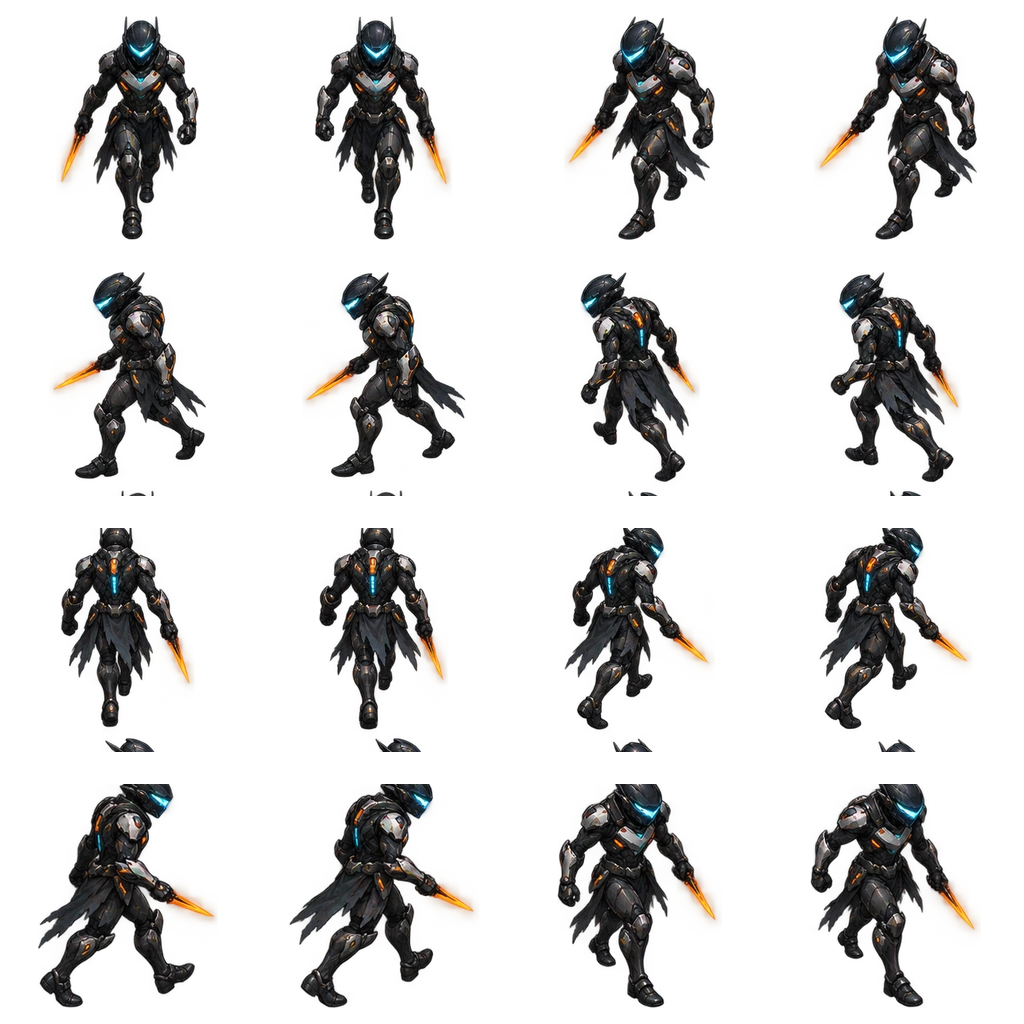
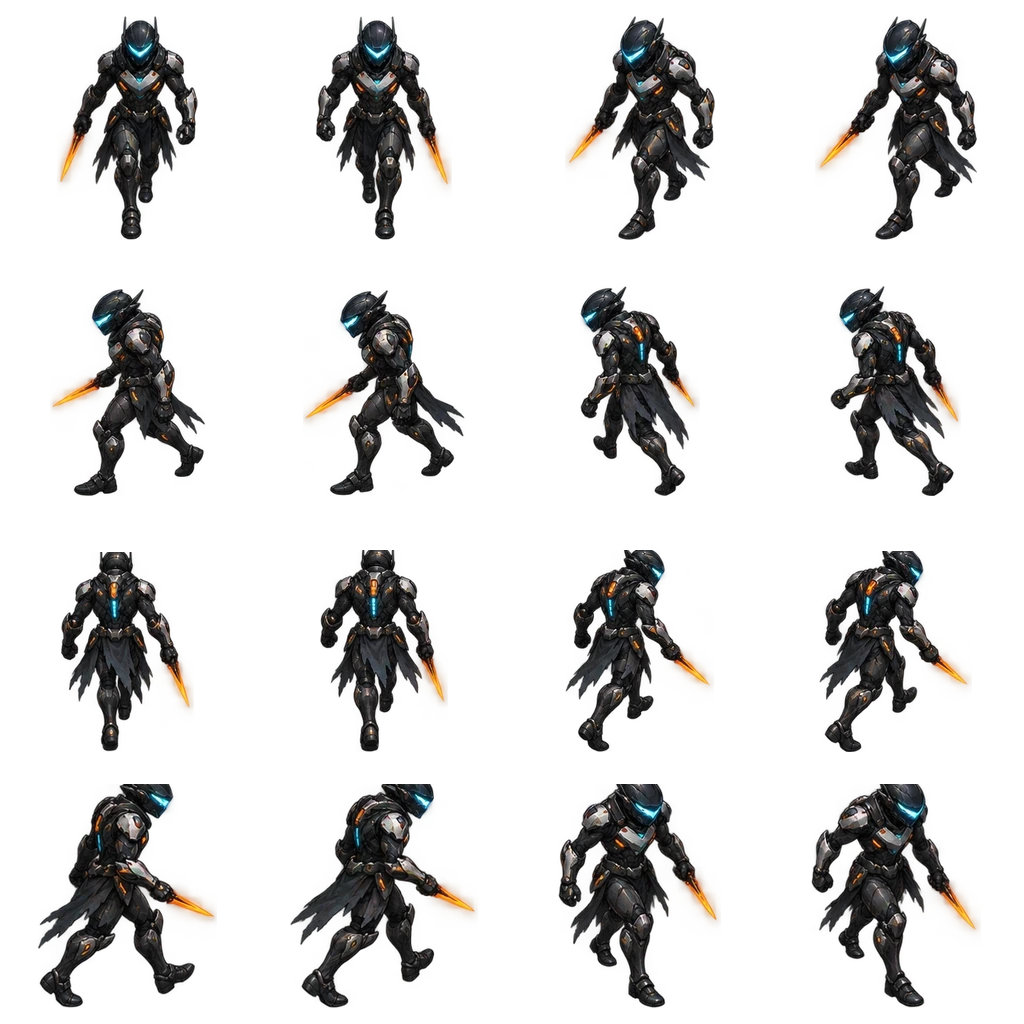
Mix future sword guards and rifle guards with clean directional sprites

diff --git a/flutter_game/lib/adventure.dart b/flutter_game/lib/adventure.dart
@@ -628,7 +628,7 @@ class Adventure extends ChangeNotifier {
           ? world.spawn + ui.Offset(-60 + (i % 3) * 62, 165 + (i % 2) * 50)
           : at + ui.Offset(math.cos(angle) * r, math.sin(angle) * r);
       final kind = world.stage == WorldStage.future
-          ? 'cyber'
+          ? (i % 3 == 0 ? 'cyber' : 'gunner')
           : world.stage == WorldStage.sands
           ? ['scorpion', 'mummy', 'cultist'][(i + progress.level) % 3]
           : world.stage == WorldStage.past
@@ -1630,16 +1630,39 @@ class HuntEnemy extends Enemy with WithCollision {
   final EnemyTrait trait;
   bool get isElite => !boss && trait != EnemyTrait.none;
   bool get usesPounce => !boss && (kind == 'wolf' || kind == 'scorpion');
-  bool get usesSweep => !boss && (kind == 'skeleton' || kind == 'troll');
-  bool get usesBolt => !boss && (kind == 'cultist' || kind == 'cyber');
+  bool get usesSweep =>
+      !boss && (kind == 'skeleton' || kind == 'troll' || kind == 'cyber');
+  bool get usesBolt => !boss && (kind == 'cultist' || kind == 'gunner');
   double get pounceWarning => kind == 'scorpion' ? .58 : .42;
   double get pounceSpeed => kind == 'scorpion' ? 440 : 520;
   double get pounceRange => kind == 'scorpion' ? 200 : 240;
-  double get sweepRange => kind == 'troll' ? 120 : 100;
-  double get sweepAngle => kind == 'troll' ? 1.05 : .85;
-  double get sweepWarning => kind == 'troll' ? .85 : .5;
-  double get boltWarning => kind == 'cyber' ? .8 : .65;
-  ui.Color get attackColor => kind == 'cyber'
+  double get sweepRange => kind == 'troll'
+      ? 120
+      : kind == 'cyber'
+      ? 110
+      : 100;
+  double get sweepAngle => kind == 'troll'
+      ? 1.05
+      : kind == 'cyber'
+      ? .95
+      : .85;
+  double get sweepWarning => kind == 'troll'
+      ? .85
+      : kind == 'cyber'
+      ? .65
+      : .5;
+  double get sweepDamage => kind == 'troll'
+      ? 14
+      : kind == 'cyber'
+      ? 10
+      : 8;
+  double get sweepRecovery => kind == 'troll'
+      ? 2.6
+      : kind == 'cyber'
+      ? 2.1
+      : 1.8;
+  double get boltWarning => kind == 'gunner' ? .8 : .65;
+  ui.Color get attackColor => kind == 'gunner'
       ? const ui.Color(0xff7feafa)
       : kind == 'scorpion'
       ? const ui.Color(0xffbcda75)
@@ -1744,7 +1767,7 @@ class HuntEnemy extends Enemy with WithCollision {
               session.hero.body.center,
               const ui.Size(3, 3),
             )) {
-          session.hurtHero(kind == 'troll' ? 14 : 8);
+          session.hurtHero(sweepDamage);
         }
         session.game?.add(
           EnemySwipe(
@@ -1756,7 +1779,7 @@ class HuntEnemy extends Enemy with WithCollision {
           ),
         );
         slamTarget = null;
-        attackClock = kind == 'troll' ? 2.6 : 1.8;
+        attackClock = sweepRecovery;
       }
       super.update(dt);
       return;
@@ -1773,13 +1796,13 @@ class HuntEnemy extends Enemy with WithCollision {
               session,
               body.center,
               math.atan2(toward.dy, toward.dx),
-              technological: kind == 'cyber',
-              damage: kind == 'cyber' ? 10 : 8,
+              technological: kind == 'gunner',
+              damage: kind == 'gunner' ? 10 : 8,
             ),
           );
         }
         slamTarget = null;
-        attackClock = kind == 'cyber' ? 3.2 : 2.8;
+        attackClock = kind == 'gunner' ? 3.2 : 2.8;
       }
       super.update(dt);
       return;
@@ -1845,7 +1868,7 @@ class HuntEnemy extends Enemy with WithCollision {
             (boss
                 ? 64
                 : usesBolt
-                ? (kind == 'cyber' ? 350 : 280)
+                ? (kind == 'gunner' ? 350 : 280)
                 : usesSweep
                 ? sweepRange - 18
                 : 42) &&
@@ -2072,12 +2095,13 @@ class HuntEnemy extends Enemy with WithCollision {
       canvas.drawOval(
         ui.Rect.fromCenter(center: feet, width: 58, height: 22),
         ui.Paint()
-          ..color = (kind == 'cyber' ? attackColor : const ui.Color(0xffd567b6))
-              .withValues(alpha: .6)
+          ..color =
+              (kind == 'gunner' ? attackColor : const ui.Color(0xffd567b6))
+                  .withValues(alpha: .6)
           ..style = ui.PaintingStyle.stroke
           ..strokeWidth = 2,
       );
-      if (kind == 'cyber') {
+      if (kind == 'gunner') {
         final charge = (1 - windup / boltWarning).clamp(0.0, 1.0);
         final origin = body.center - position.toOffset();
         final aim = ui.Offset(math.cos(bearing), math.sin(bearing));

diff --git a/flutter_game/test/future_actor_art_test.dart b/flutter_game/test/future_actor_art_test.dart
@@ -1,0 +1,70 @@
+import 'dart:math' as math;
+import 'dart:ui' as ui;
+import 'package:flutter_test/flutter_test.dart';
+import 'package:guardian_new/game_art.dart';
+
+void main() {
+  TestWidgetsFlutterBinding.ensureInitialized();
+  test(
+    'both future guards render eight unique bearings and two gait frames without neighboring-cell leakage',
+    () async {
+      final art = await GameArt.load();
+      addTearDown(() {
+        for (final shader in art.materials) {
+          shader.dispose();
+        }
+        for (final image in art.images.values) {
+          image.dispose();
+        }
+      });
+      for (final kind in ['cyber', 'gunner']) {
+        final frames = art.actors[kind]['frames'] as List;
+        expect(frames.length, 16);
+        final unique = <int>{};
+        for (var direction = 0; direction < 8; direction++) {
+          for (var phase = 0; phase < 2; phase++) {
+            final index = direction * 2 + phase, f = frames[index] as List;
+            expect(f[0], greaterThanOrEqualTo(index % 4 * 256 + 16));
+            expect(f[1], greaterThanOrEqualTo(index ~/ 4 * 256 + 16));
+            expect(
+              (f[0] as num) + (f[2] as num),
+              lessThanOrEqualTo(index % 4 * 256 + 240),
+            );
+            expect(
+              (f[1] as num) + (f[3] as num),
+              lessThanOrEqualTo(index ~/ 4 * 256 + 240),
+            );
+            final recorder = ui.PictureRecorder();
+            art.actor(
+              ui.Canvas(recorder),
+              kind,
+              const ui.Offset(64, 110),
+              math.pi / 2 + direction * math.pi / 4,
+              phase,
+              88,
+            );
+            final picture = recorder.endRecording();
+            final image = await picture.toImage(128, 128);
+            picture.dispose();
+            final raw = (await image.toByteData(
+              format: ui.ImageByteFormat.rawRgba,
+            ))!;
+            final bytes = raw.buffer.asUint8List();
+            var opaque = 0;
+            for (var i = 3; i < bytes.length; i += 4) {
+              if (bytes[i] > 20) opaque++;
+            }
+            expect(opaque, greaterThan(500));
+            unique.add(Object.hashAll(bytes));
+            image.dispose();
+          }
+        }
+        expect(
+          unique.length,
+          16,
+          reason: 'all bearings and gait phases must select their own image',
+        );
+      }
+    },
+  );
+}

diff --git a/flutter_game/test/stage_enemy_patterns_test.dart b/flutter_game/test/stage_enemy_patterns_test.dart
@@ -95,9 +95,9 @@ void main() {
     },
   );
   test(
-    'cyber guard locks a charged shot, pauses and lets a sidestep escape',
+    'pulse rifle guard locks a charged shot, pauses and lets a sidestep escape',
     () {
-      final enemy = s.spawnEnemy('cyber', const Offset(6300, 4200))!
+      final enemy = s.spawnEnemy('gunner', const Offset(6300, 4200))!
         ..attackClock = 0;
       enemy.update(.05);
       expect(enemy.windup, closeTo(.8, .001));
@@ -122,7 +122,46 @@ void main() {
       expect(bolt.resolved, true);
     },
   );
-  for (final kind in ['scorpion', 'troll', 'cyber']) {
+  test(
+    'cyber sword guard warns before a fixed sweep and never fires a rifle projectile',
+    () {
+      final enemy = s.spawnEnemy('cyber', const Offset(6070, 4200))!
+        ..attackClock = 0;
+      enemy.update(.05);
+      expect(enemy.windup, closeTo(.65, .001));
+      final hp = s.progress.hp;
+      for (var i = 0; i < 10; i++) {
+        enemy.update(.05);
+      }
+      expect(s.progress.hp, hp);
+      final warning = enemy.windup;
+      s.pause();
+      enemy.update(.5);
+      expect(enemy.windup, warning);
+      s.resume();
+      s.hero.position.y += 130;
+      for (var i = 0; i < 5; i++) {
+        enemy.update(.05);
+      }
+      expect(s.progress.hp, hp);
+      expect(game.added.whereType<EnemySwipe>().length, 1);
+      s.hero.position.setValues(6000, 4200);
+      enemy.position.setValues(6070, 4200);
+      enemy.attackClock = 0;
+      for (var i = 0; i < 16; i++) {
+        enemy.update(.05);
+      }
+      expect(s.progress.hp, lessThan(hp));
+      final after = s.progress.hp;
+      for (var i = 0; i < 15; i++) {
+        enemy.update(.05);
+      }
+      expect(s.progress.hp, after);
+      expect(game.added.whereType<EnemySwipe>().length, 2);
+      expect(game.added.whereType<ShadowBolt>(), isEmpty);
+    },
+  );
+  for (final kind in ['scorpion', 'troll', 'cyber', 'gunner']) {
     test('$kind stun cancels its warning and gives a recovery window', () {
       final enemy = s.spawnEnemy(kind, const Offset(6080, 4200))!
         ..attackClock = 0;

diff --git a/flutter_game/lib/game_art.dart b/flutter_game/lib/game_art.dart
@@ -40,6 +40,7 @@ class GameArt {
         'time-sites',
         'stage-materials',
         'actors-cyber',
+        'actors-gunner',
         'cyber-props',
         'ruin-props',
         'village-scene',
@@ -239,6 +240,7 @@ class GameArt {
       'mummy': ('creatures-b', 3, 8),
       'troll': ('creatures-b', 0, 8),
       'cyber': ('cyber', 0, 8),
+      'gunner': ('gunner', 0, 8),
       'merchant': ('villagers', 0, 8),
       'villager': ('villagers', 1, 8),
       'horse': ('vehicles', 0, 8),
@@ -249,7 +251,7 @@ class GameArt {
     final definition = definitions[key]!;
     final sheet = attack && key == 'hero' ? 'hero-attack' : definition.$1,
         count = definition.$3;
-    final index = key == 'cyber'
+    final index = key == 'cyber' || key == 'gunner'
         ? facingFrame(angle, 8) * 2 + phase % 2
         : count == 16
         ? facingFrame(angle, count) + (phase % 2) * 16

diff --git a/flutter_game/test/campaign_test.dart b/flutter_game/test/campaign_test.dart
@@ -119,6 +119,9 @@ void main() {
       s.spawnPack(initial: true);
       final kinds = s.mobs.map((m) => m.kind).toSet();
       expect(kinds, isNotEmpty);
+      if (stage == WorldStage.future) {
+        expect(kinds, containsAll(['cyber', 'gunner']));
+      }
       expect(
         kinds,
         everyElement(
@@ -127,7 +130,7 @@ void main() {
                 ? ['scorpion', 'mummy', 'cultist']
                 : stage == WorldStage.past
                 ? ['skeleton', 'troll', 'cultist']
-                : ['cyber'],
+                : ['cyber', 'gunner'],
           ),
         ),
       );

diff --git a/README.md b/README.md
@@ -52,7 +52,7 @@ npm run build
 
 말·자전거·오토바이는 마을 남쪽에, 배는 충분히 넓은 호수의 물가에 있습니다. 가까이 가서 **타기**를 눌러 탑승하고 **내리기**로 하차합니다. 지상 탈것에서 공격·기술·회피를 사용하면 내려서 행동합니다. 배는 수면을 벗어나지 않으며 육지로 내릴 수 있는 물가에서 하차합니다. 이동 방향에 맞는 8방향 그림과 두 동작을 사용하며 탑승·주차 위치도 저장됩니다.
 
-초반 성장 뒤에는 광신도가 지팡이를 충전하고 마지막으로 겨눈 위치에 보라색 투사체를 날립니다. 이동·구르기로 피하거나 기절시켜 끊으세요. 늑대는 직선 경로를 예고한 뒤 마지막으로 겨눈 곳까지 뛰어들며, 나무와 다른 몬스터에 막힙니다. 해골은 부채꼴 범위를 예고하고 방향을 고정해 베므로 옆이나 뒤로 피할 수 있습니다. 두 공격 모두 기절로 끊을 수 있습니다. 사막의 전갈은 녹색 경로를 예고한 뒤 짧게 돌진하고, 고대 왕국의 트롤은 더 긴 준비 후 넓은 범위를 휘두릅니다. 미래의 경비병은 푸른 조준선을 충전해 마지막으로 겨눈 위치에 광탄을 발사합니다. 이 공격들도 옆으로 피하거나 기절로 끊을 수 있으며 장애물을 통과하지 않습니다. 18마리 처치·3레벨 이후에는 일부 무리에 정예 하나가 섞입니다. 금빛 방패 표시는 체력이 높은 철갑형, 보라색 갈매기 표시는 이동이 빠른 신속형입니다. 정예는 미니맵에서도 구분되며 20골드와 특수 능력이 붙은 노란 희귀 무기 하나를 줍니다. 정예도 같은 공격 예고·장애물·기절 규칙을 따릅니다. 운석은 비행 중 불꽃과 충돌·폭발·잔해가 이어지고, 서릿발은 얼음 결정이 자란 뒤 부서집니다. 얼음 갑옷은 결정과 빛이 주위를 돌며, 소용돌이는 16프레임의 바람·베기 궤적이 이동하는 캐릭터를 따라가며, 함성은 16프레임의 금빛 충격파·파편이 시전 위치에서 퍼졌다 흩어지며 캐릭터 아래에 표시됩니다. 검 궤적도 시간에 따라 변합니다. 근접 적중 때는 짧은 타격 자세와 적의 섬광·미세한 화면 반응을 주되 이동·공격 간격·쿨다운은 유지합니다. 전투를 벗어나 분수 곁에서 쉬면 서서히 회복합니다. 쓰러졌을 때는 마지막 살아 있던 체크포인트로 재도전할 수 있습니다.
+초반 성장 뒤에는 광신도가 지팡이를 충전하고 마지막으로 겨눈 위치에 보라색 투사체를 날립니다. 이동·구르기로 피하거나 기절시켜 끊으세요. 늑대는 직선 경로를 예고한 뒤 마지막으로 겨눈 곳까지 뛰어들며, 나무와 다른 몬스터에 막힙니다. 해골은 부채꼴 범위를 예고하고 방향을 고정해 베므로 옆이나 뒤로 피할 수 있습니다. 두 공격 모두 기절로 끊을 수 있습니다. 사막의 전갈은 녹색 경로를 예고한 뒤 짧게 돌진하고, 고대 왕국의 트롤은 더 긴 준비 후 넓은 범위를 휘두릅니다. 미래에는 부채꼴 베기를 예고하는 검병과 푸른 조준선을 충전하는 사격 경비병이 함께 등장합니다. 사격 경비병은 마지막으로 겨눈 위치에 광탄을 발사합니다. 이 공격들도 옆으로 피하거나 기절로 끊을 수 있으며 장애물을 통과하지 않습니다. 18마리 처치·3레벨 이후에는 일부 무리에 정예 하나가 섞입니다. 금빛 방패 표시는 체력이 높은 철갑형, 보라색 갈매기 표시는 이동이 빠른 신속형입니다. 정예는 미니맵에서도 구분되며 20골드와 특수 능력이 붙은 노란 희귀 무기 하나를 줍니다. 정예도 같은 공격 예고·장애물·기절 규칙을 따릅니다. 운석은 비행 중 불꽃과 충돌·폭발·잔해가 이어지고, 서릿발은 얼음 결정이 자란 뒤 부서집니다. 얼음 갑옷은 결정과 빛이 주위를 돌며, 소용돌이는 16프레임의 바람·베기 궤적이 이동하는 캐릭터를 따라가며, 함성은 16프레임의 금빛 충격파·파편이 시전 위치에서 퍼졌다 흩어지며 캐릭터 아래에 표시됩니다. 검 궤적도 시간에 따라 변합니다. 근접 적중 때는 짧은 타격 자세와 적의 섬광·미세한 화면 반응을 주되 이동·공격 간격·쿨다운은 유지합니다. 전투를 벗어나 분수 곁에서 쉬면 서서히 회복합니다. 쓰러졌을 때는 마지막 살아 있던 체크포인트로 재도전할 수 있습니다.
 
 제1장의 목표는 몬스터 120마리와 숲의 파수꾼 토벌입니다. 완료 후 계속 탐험하며 남은 전리품과 18개 상자를 찾을 수 있습니다. 선택 여정 ‘숲의 기억’은 서쪽·북쪽·동쪽 상자의 이야기 3개를 복원하면 스킬 포인트 1개를 줍니다. 기억은 여정에서 펼쳐 읽으며 정화 목표와 별개입니다. 북쪽 잊힌 대성당, 동쪽 침수된 회랑, 남쪽 잿빛 탑, 서쪽 가시덤불 묘지는 다음 스테이지의 목적지만 안내하며 아직 이동하지 않습니다.
 
